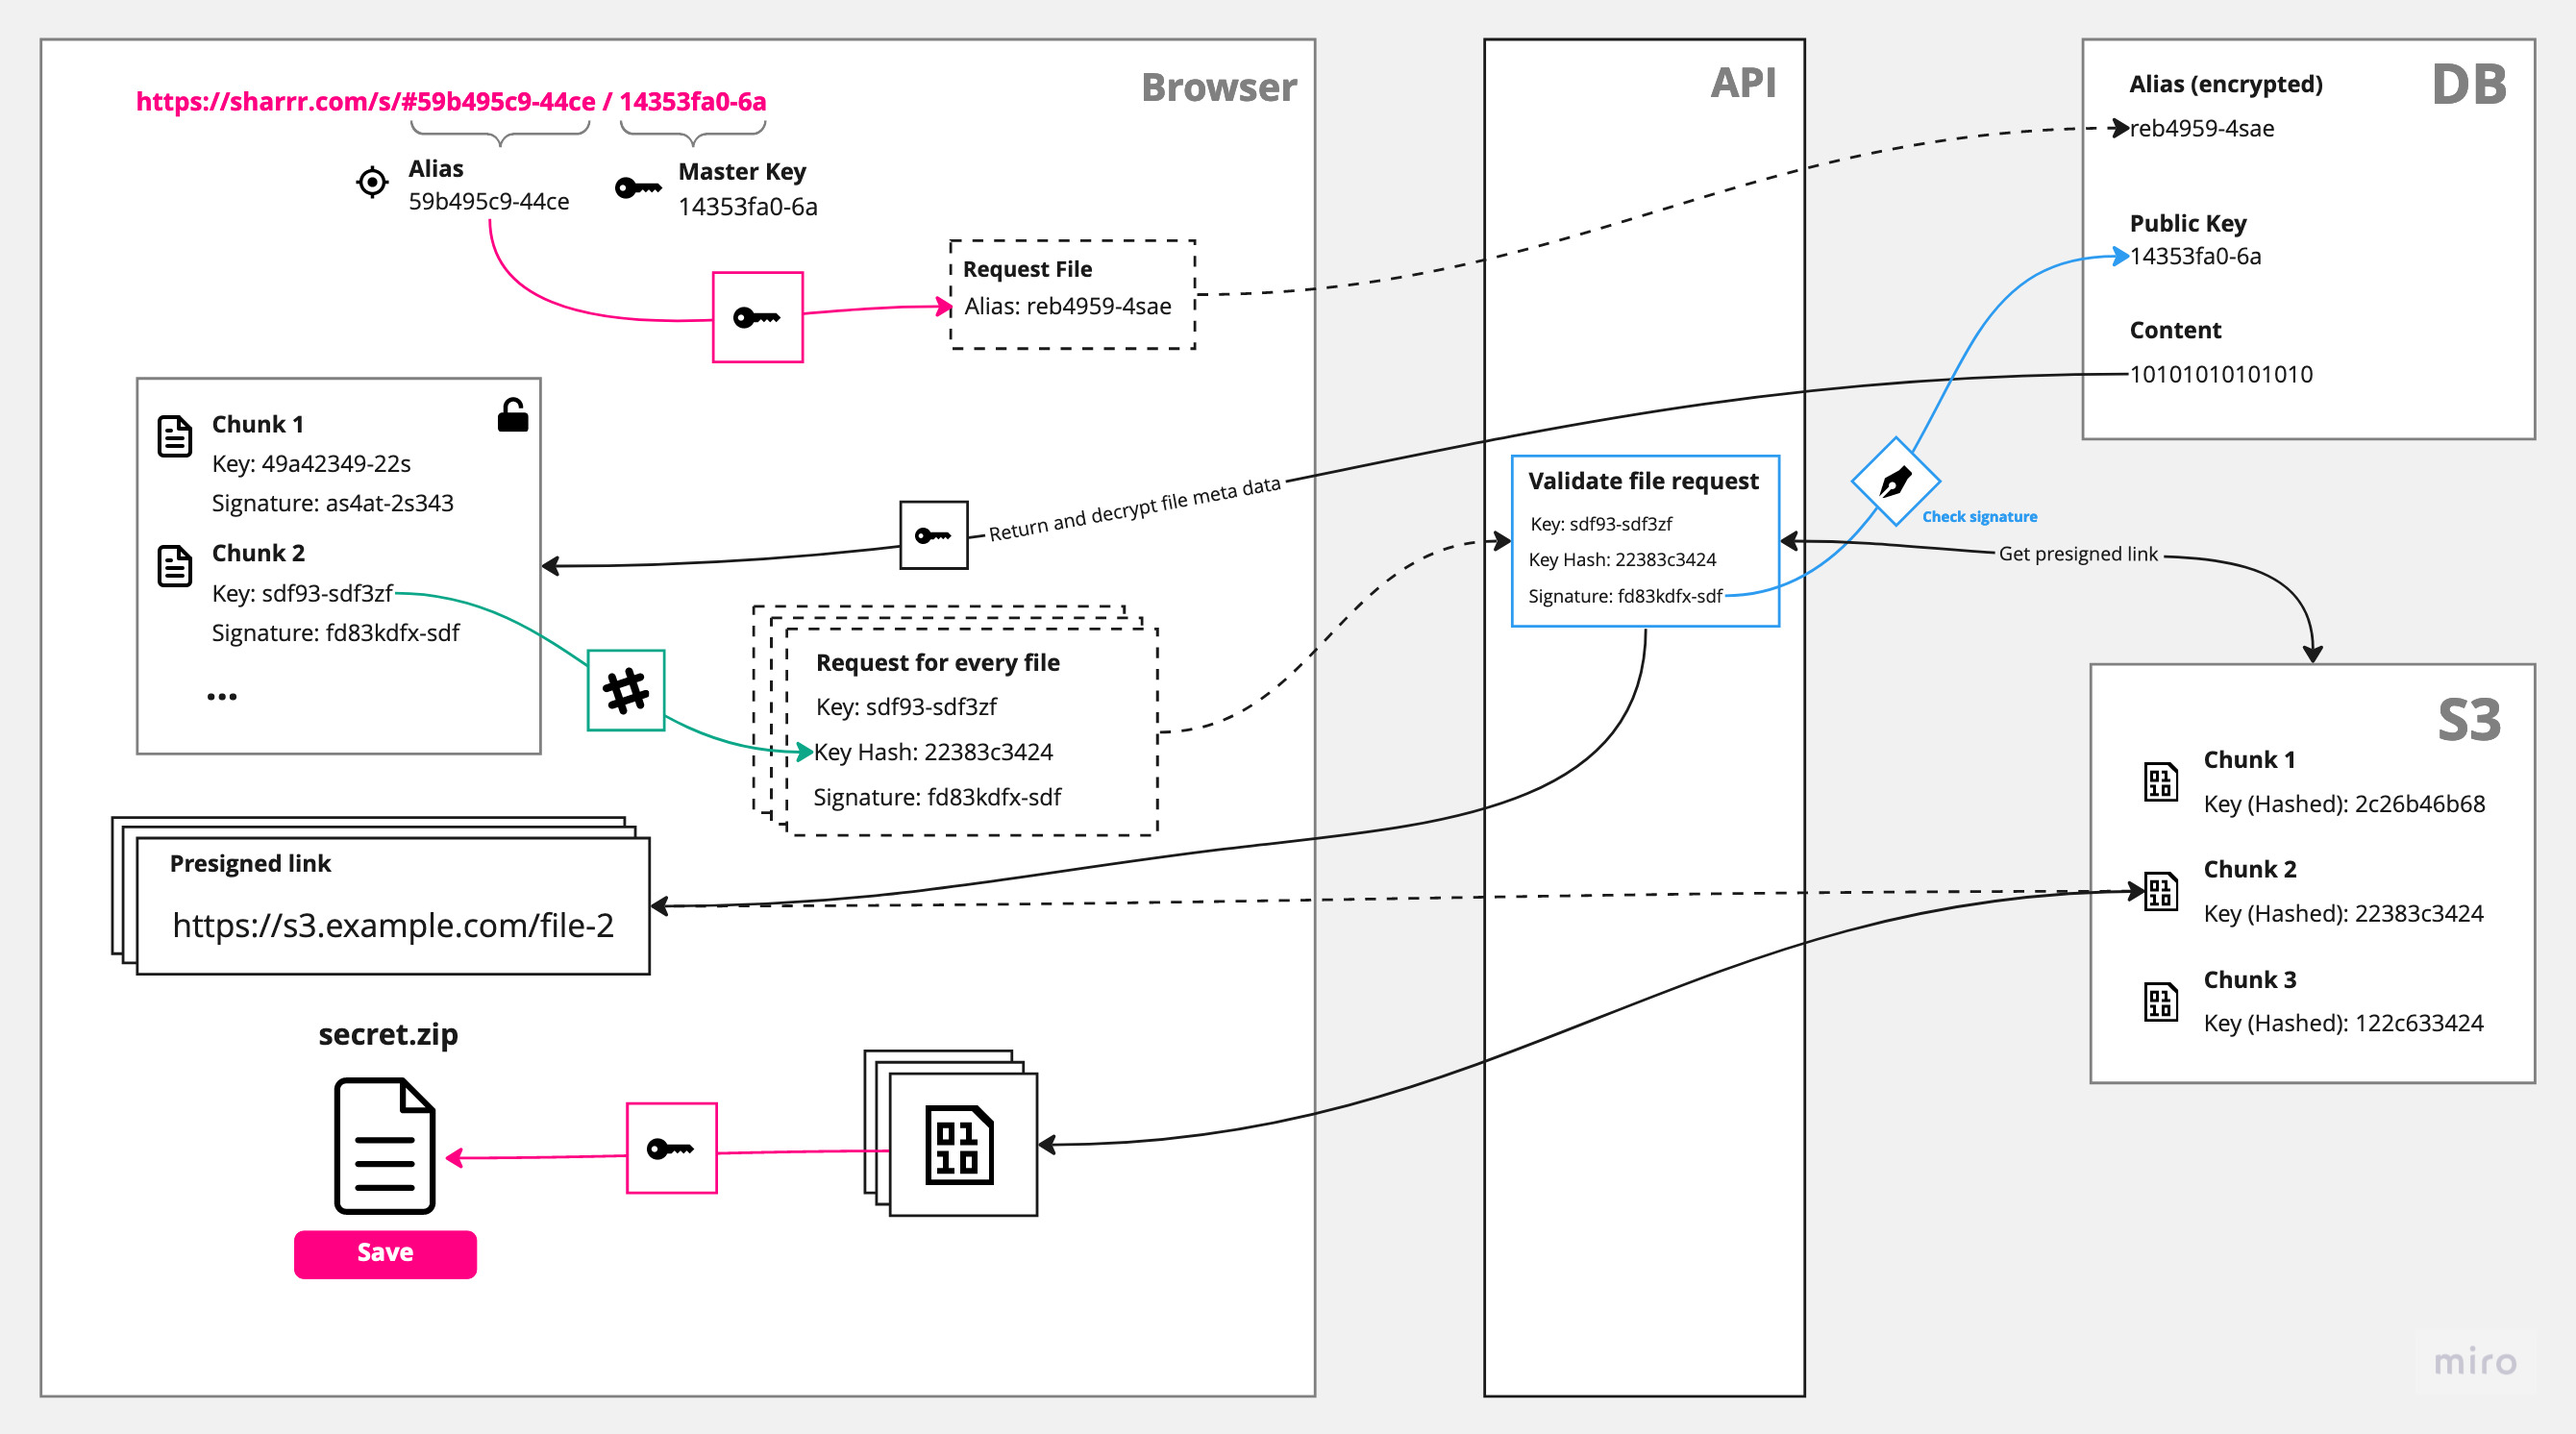
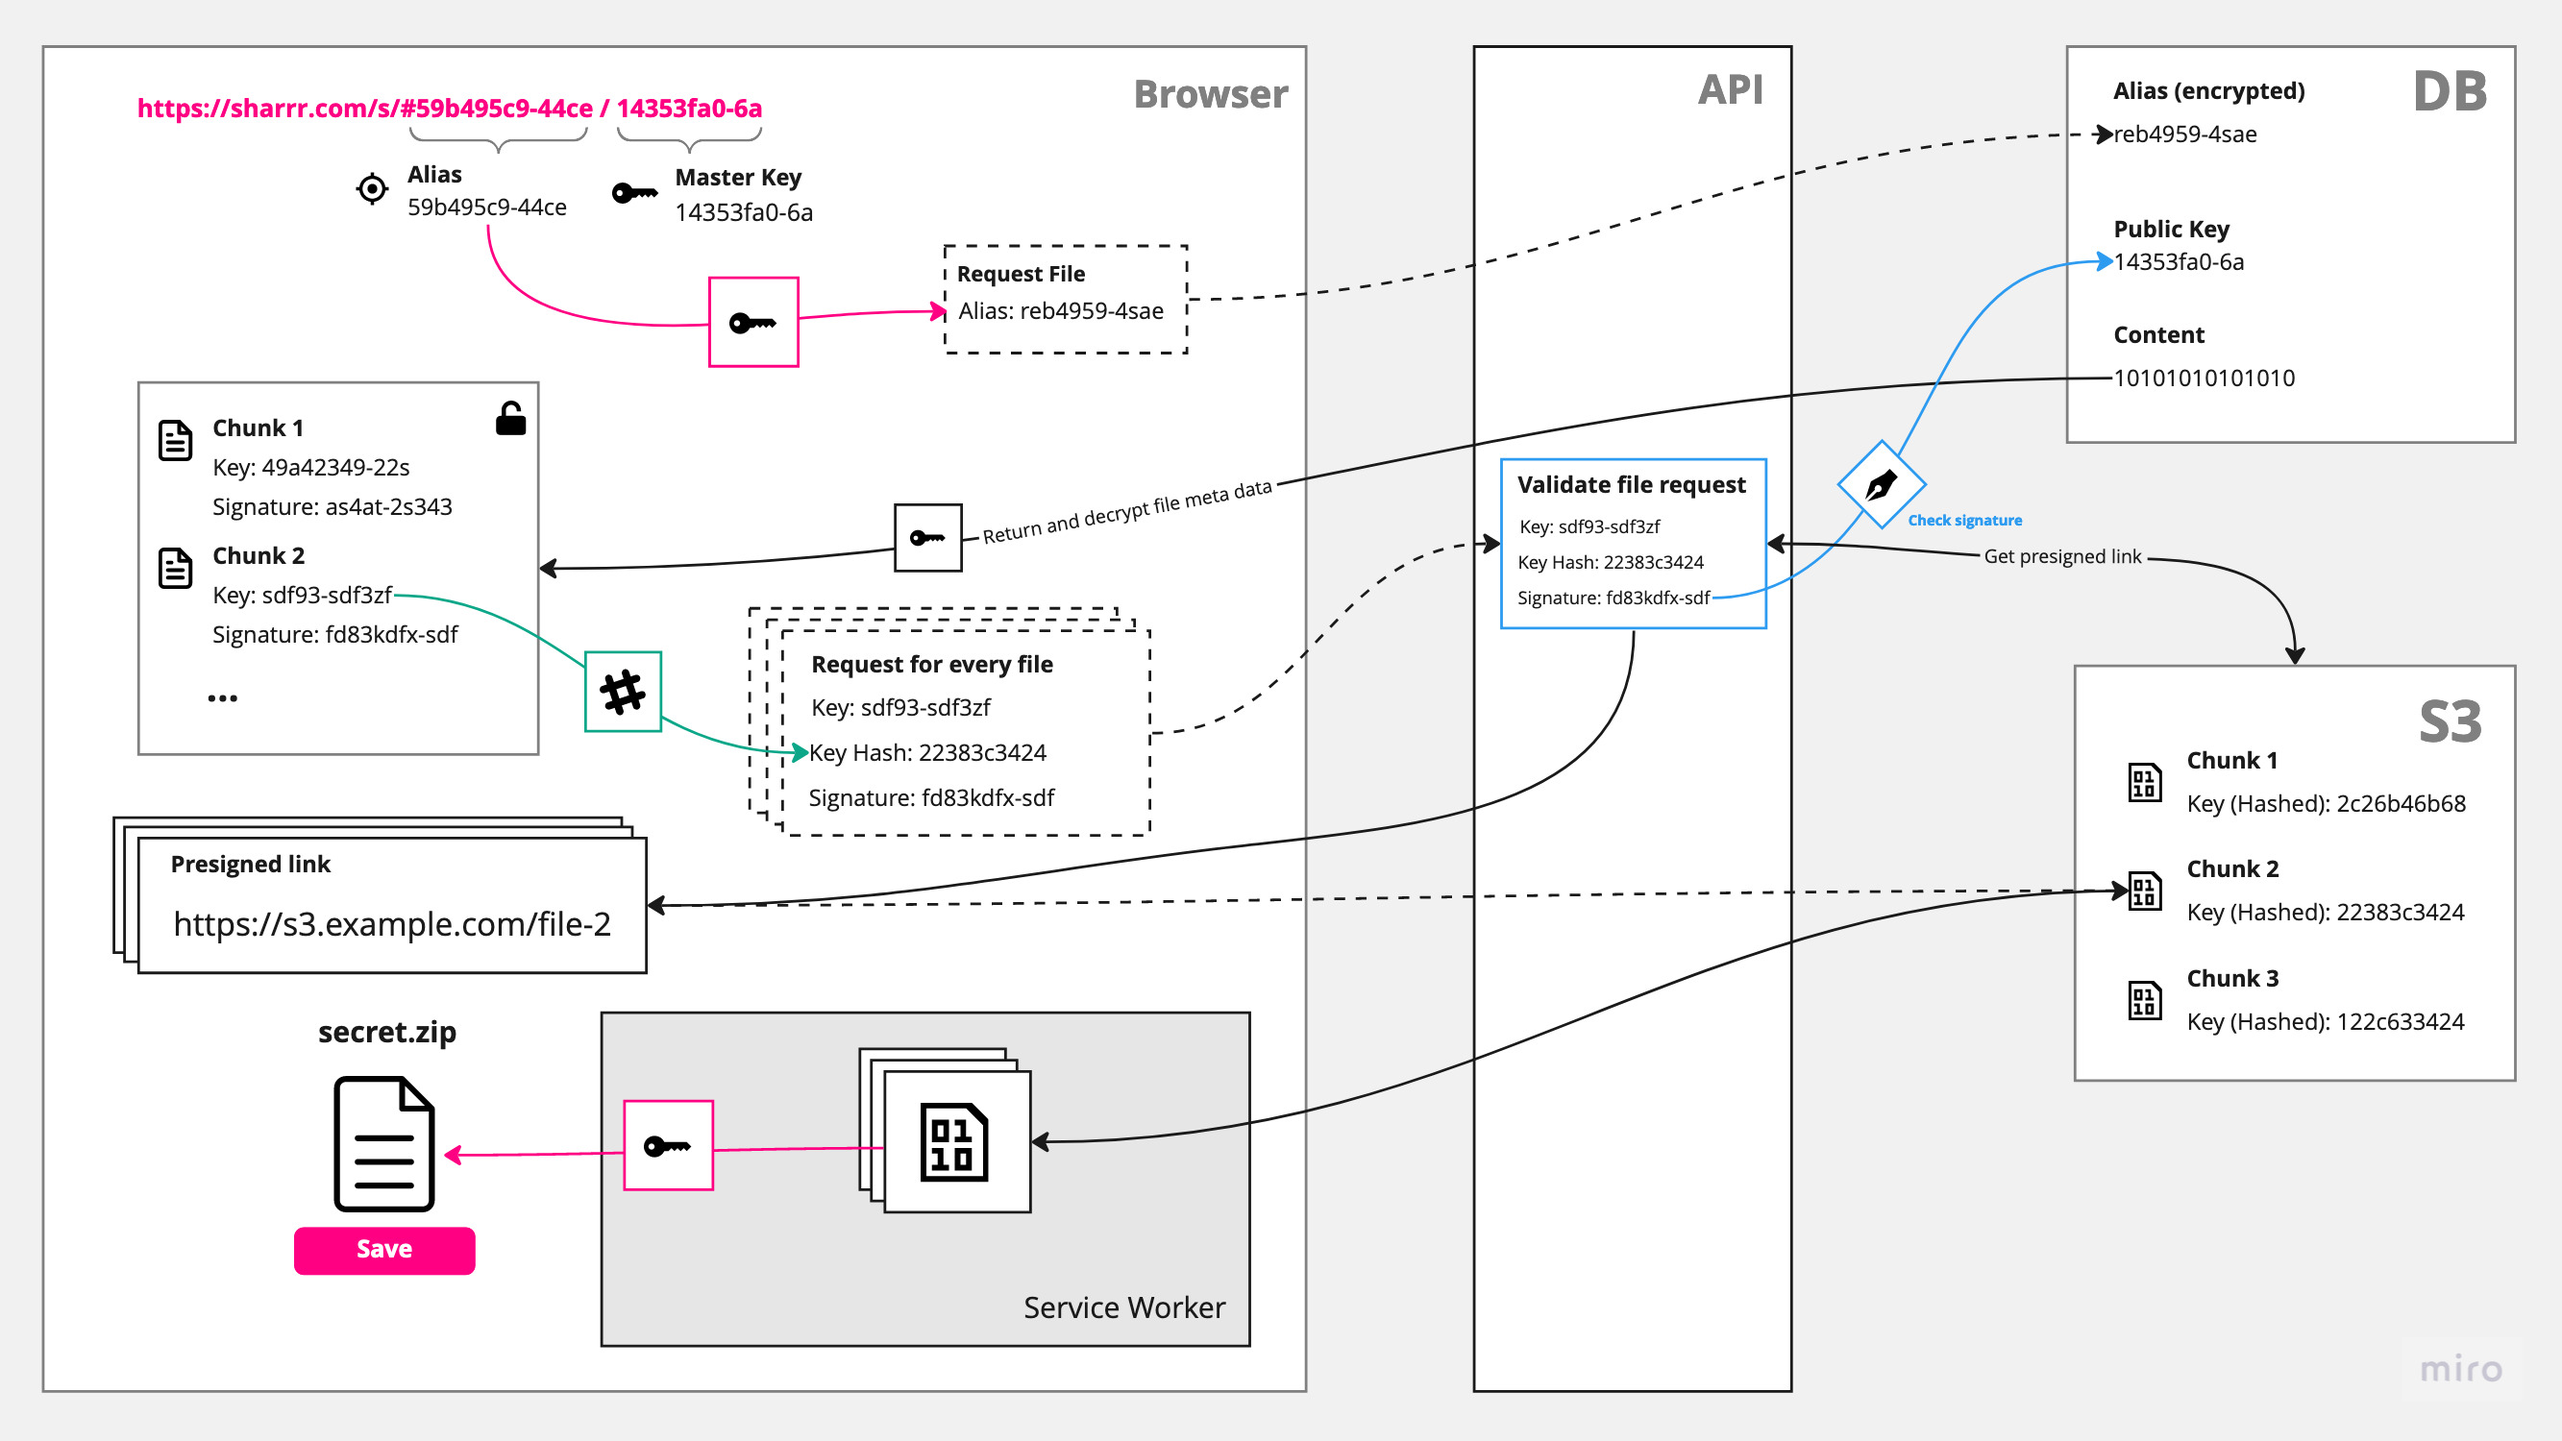
Improve about page

diff --git a/src/routes/about/about.md b/src/routes/about/about.md
@@ -32,29 +32,44 @@ It is worth noting here that the alias and master key **never leave the client**
 
 #### Upload (Encryption)
 
-Upload is straight forward. Split files into chunks, encrypt each chunk and store a reference to each chunk together with a signature and an public key into the database.
+Encrypting the file is straight forward: Split files into chunks, encrypt each chunk and store a reference to each chunk together with a signature and an public key into the database.
 
 ![Encryption](/images/about/about-encryption.jpg)
 
 #### Download (Decryption)
 
-![Encryption](/images/about/about-decryption.jpg)
+The download is the tricky part. Not only do we need to make sure the client is allowed to request a certain file (solved with a cryptographic signature, see blue box), but also it is not possible to stream files directly into the download folder. We therefore need a [service worker](https://developer.mozilla.org/en-US/docs/Web/API/Service_Worker_API) in between. If you want to learn more about how this works, I recommend [this video](https://www.youtube.com/watch?v=SdePc87Ffik) or this [blog post](https://proton.me/blog/proton-drive-web-encryption-technique) by the Proton Drive team.
+
+![Decryption](/images/about/about-decryption.jpg)
+
+## Cryptography
+
+For encryption/decryption only built-in browser APIs are used, namely the **Web Crypto API**. As a side effect, this program won't run in legacy browsers or with older node versions.
+
+The security relies on two algorithms:
+
+- [**AES-GCM** (Advanced Encryption Standard - Galois/Counter Mode)](https://en.wikipedia.org/wiki/Galois/Counter_Mode) for symmetric encryption: This is used for the master key that encrypts/decrypts all file chunks and the data stored in the database.
+- [**ECDSA** (Elliptic Curve Digital Signature Algorithm)](https://en.wikipedia.org/wiki/Elliptic_Curve_Digital_Signature_Algorithm) for asymmetric encryption: This is used to sign the file chunk keys in order make sure the later download request is allowed to access this specific chunk file.
 
 ## Tech stack
 
 - SvelteKit
 - Tailwind (CSS)
-- PlanetScale (MySQL DB)
+- PlanetScale (MySQL)
 - Prisma (ORM)
-- Web Crypto API
-- S3 Object Storage
+
+### Infrastructure
+
+- Website on [Vercel](https://vercel.com/)
+- DB on [PlanetScale](https://planetscale.com/)
+- S3 Object Storage with [flow.swiss](https://flow.swiss)
 
 ## Resources/Inspiration
 
-This project is heavily inspired by a great online community and open source projects, namely:
+This project is heavily inspired by a great online community and amazing open source projects:
 
 - [hat.sh](https://hat.sh/) - A client-side file encryption project
-- [Proton Drive security model](https://proton.me/blog/protondrive-security) explained
-- [Firefox Send](https://github.com/mozilla/send) (Archived)
-- [Talk from Thomas Konrad](https://www.youtube.com/watch?v=SdePc87Ffik) about end-to-end encryption
-- [MDN Docs](https://developer.mozilla.org/en-US/docs/Web/API/Web_Crypto_API) about Web Crypto
+- [Proton Drive security model explained](https://proton.me/blog/protondrive-security) (Blog)
+- [Firefox Send](https://github.com/mozilla/send) (Archived Repo)
+- [Thomas Konrad on end-to-end encryption](https://www.youtube.com/watch?v=SdePc87Ffik) (Video)
+- [MDN Docs about Web Crypto API](https://developer.mozilla.org/en-US/docs/Web/API/Web_Crypto_API)
